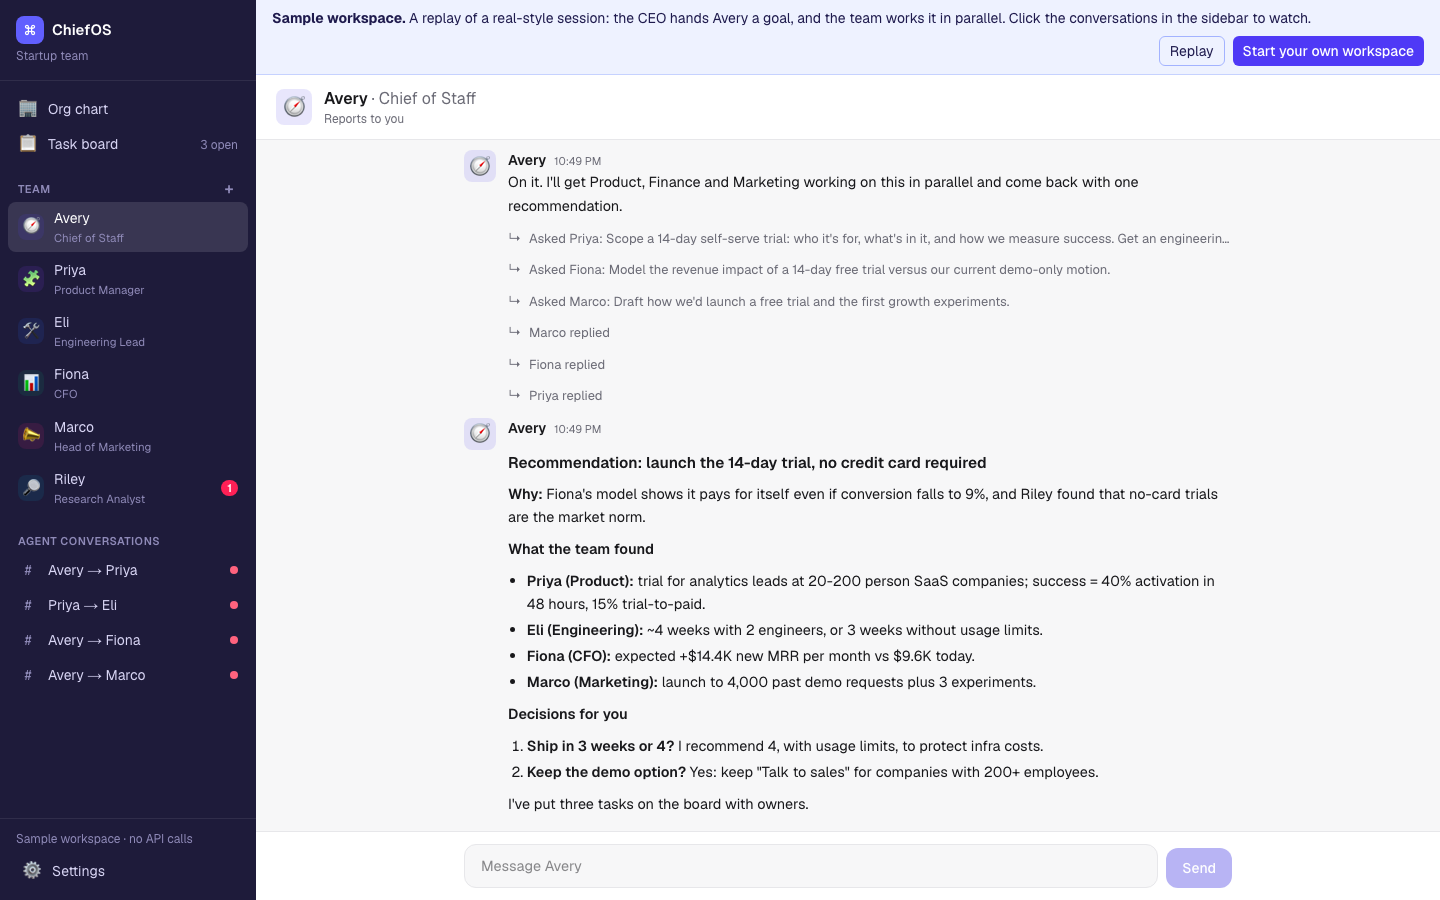
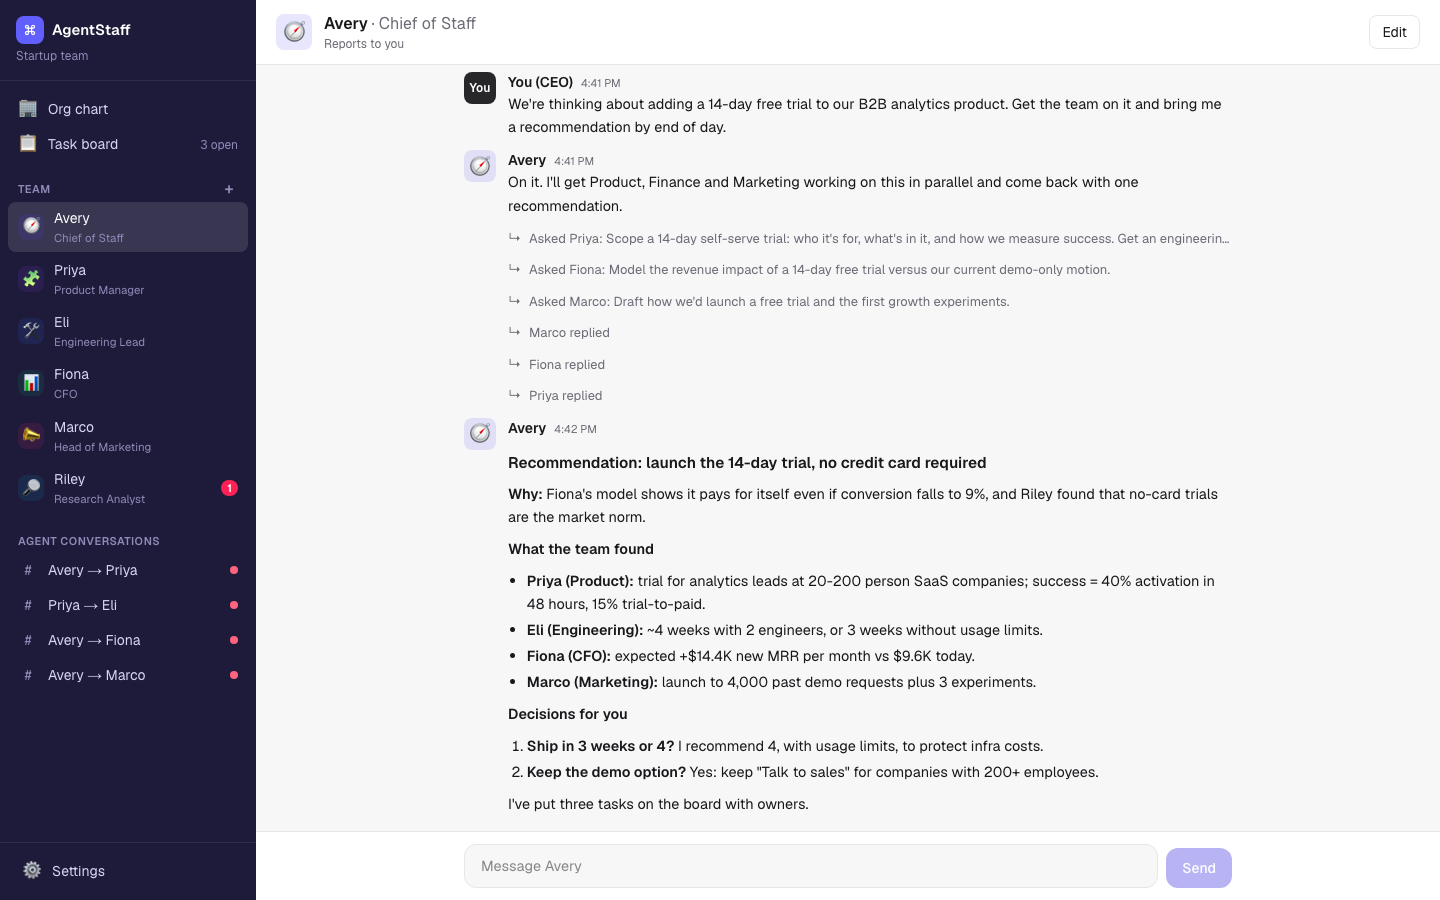
Rename the app to AgentStaff
ChiefOS is already the name of an existing AI chief-of-staff product, so the
app is now AgentStaff. Saved workspaces and API keys from the old name are
carried over automatically. README screenshots and header image updated.

diff --git a/src/lib/store.ts b/src/lib/store.ts
@@ -9,8 +9,9 @@ import type { AuthorId, BoardTask, ChatMessage, Org, Settings, Thread, Usage, Vi
  * and components subscribe with useWorkspace(). Real workspaces persist to localStorage; the demo doesn't.
  */
 
-const STATE_KEY = "chiefos:workspace:v1";
-const KEY_KEY = "chiefos:apiKey";
+const STATE_KEY = "agentstaff:workspace:v1";
+const KEY_KEY = "agentstaff:apiKey";
+const LEGACY = { "chiefos:workspace:v1": STATE_KEY, "chiefos:apiKey": KEY_KEY };   // the app's earlier name
 
 /** One-click presets. New workspaces start on Balanced so a first run never surprises anyone. */
 export const COST_MODES = {
@@ -96,6 +97,11 @@ function save() {
 /** Load the saved workspace. Returns false when there is none (first visit). */
 export function loadSaved(): boolean {
   try {
+    for (const [old, now] of Object.entries(LEGACY)) {
+      const v = localStorage.getItem(old);
+      if (v !== null && localStorage.getItem(now) === null) localStorage.setItem(now, v);
+      if (v !== null) localStorage.removeItem(old);
+    }
     const raw = localStorage.getItem(STATE_KEY);
     const apiKey = localStorage.getItem(KEY_KEY) ?? "";
     if (!raw) {

diff --git a/src/components/Settings.tsx b/src/components/Settings.tsx
@@ -34,7 +34,7 @@ export function Settings({ onClose, reason }: { onClose: () => void; reason?: st
     const blob = new Blob([JSON.stringify(rest, null, 2)], { type: "application/json" });
     const a = document.createElement("a");
     a.href = URL.createObjectURL(blob);
-    a.download = `chiefos-workspace-${new Date().toISOString().slice(0, 10)}.json`;
+    a.download = `agentstaff-workspace-${new Date().toISOString().slice(0, 10)}.json`;
     a.click();
     URL.revokeObjectURL(a.href);
   };
@@ -64,7 +64,7 @@ export function Settings({ onClose, reason }: { onClose: () => void; reason?: st
           <a className="text-accent underline" href="https://platform.claude.com/settings/keys" target="_blank" rel="noopener noreferrer">
             platform.claude.com
           </a>
-          . Your key is stored only in this browser and sent only to Anthropic. ChiefOS has no server. You pay
+          . Your key is stored only in this browser and sent only to Anthropic. AgentStaff has no server. You pay
           Anthropic directly for what you use; the sidebar shows an estimate.
         </p>
       </section>

diff --git a/src/app/layout.tsx b/src/app/layout.tsx
@@ -6,9 +6,9 @@ const geistSans = Geist({ variable: "--font-geist-sans", subsets: ["latin"] });
 const geistMono = Geist_Mono({ variable: "--font-geist-mono", subsets: ["latin"] });
 
 export const metadata: Metadata = {
-  title: "ChiefOS · Your AI company",
+  title: "AgentStaff · Manage an AI team like an org chart",
   description:
-    "An AI operating system for one-person companies: chat with your AI chief of staff, product manager, engineer and CFO in parallel, and watch them work with each other.",
+    "An AI agent management app built in Claude Code: chat with your AI chief of staff, product manager, engineer and CFO in parallel, and watch them hand off work to each other.",
 };
 
 export default function RootLayout({ children }: Readonly<{ children: React.ReactNode }>) {

diff --git a/src/components/Sidebar.tsx b/src/components/Sidebar.tsx
@@ -27,7 +27,7 @@ export function Sidebar({ onSettings, onHire, onNavigate }: { onSettings: () => 
       <div className="border-b border-white/8 px-4 py-4">
         <div className="flex items-center gap-2 text-[15px] font-semibold text-white">
           <span className="grid h-7 w-7 place-items-center rounded-lg bg-indigo-500 text-sm">⌘</span>
-          ChiefOS
+          AgentStaff
           {anyBusy && <span className="working-dot ml-auto h-2 w-2 rounded-full bg-emerald-400" title="Agents working" />}
         </div>
         <div className="mt-1 truncate text-xs text-sidebar-muted">{s.org.name}</div>

diff --git a/src/lib/demo.ts b/src/lib/demo.ts
@@ -4,7 +4,7 @@ import { TEMPLATES, cloneOrg } from "./templates";
 import type { AuthorId } from "./types";
 
 /**
- * The sample workspace: a scripted replay of what a real ChiefOS session looks like, so anyone can
+ * The sample workspace: a scripted replay of what a real AgentStaff session looks like, so anyone can
  * see it work without an API key. The text is pre-written for illustration; no API calls are made.
  */
 

diff --git a/src/lib/engine.ts b/src/lib/engine.ts
@@ -5,7 +5,7 @@ import { dmId, teamId } from "./store";
 import type { Agent, ModelId, Usage } from "./types";
 
 /**
- * ChiefOS engine.
+ * AgentStaff engine.
  *
  * Every thread is its own Claude conversation (like a separate Claude Code session). The CEO can talk to
  * several agents at once, and agents can message each other with the `message_colleague` tool. That call

diff --git a/src/app/page.tsx b/src/app/page.tsx
@@ -65,7 +65,7 @@ export default function Home() {
           <button onClick={() => setNavOpen(true)} className="rounded-md px-2 py-1 text-lg" aria-label="Open navigation">
             ☰
           </button>
-          <span className="font-semibold">ChiefOS</span>
+          <span className="font-semibold">AgentStaff</span>
         </div>
 
         {demo && (

diff --git a/next.config.ts b/next.config.ts
@@ -1,6 +1,6 @@
 import type { NextConfig } from "next";
 
-// Static export: ChiefOS has no server. It runs entirely in the browser and can be hosted anywhere for free.
+// Static export: AgentStaff has no server. It runs entirely in the browser and can be hosted anywhere for free.
 const nextConfig: NextConfig = {
   output: "export",
 };

diff --git a/README.md b/README.md
@@ -1,17 +1,17 @@
-# ChiefOS · manage an AI team like an org chart
+# AgentStaff · manage an AI team like an org chart
 
 *An AI agent management app, built in Claude Code.*
 
 **Chat with your AI chief of staff, product manager, engineer and CFO in parallel, and watch them work with each other.**
 
-ChiefOS is a workspace laid out like Slack, where every employee is an AI agent. You're the CEO. Pick anyone in the
+AgentStaff is a workspace laid out like Slack, where every employee is an AI agent. You're the CEO. Pick anyone in the
 left nav and start a conversation. Ask your CFO about runway while your product manager writes a PRD. Hand your
 chief of staff a goal and watch them delegate it: they message the PM, the CFO and marketing **at the same time**,
 the PM pulls in the engineer for an estimate, tasks land on a shared board, and you get one recommendation back.
 
 Every agent-to-agent conversation is its own thread you can open and read. Nothing happens in a black box.
 
-![ChiefOS: an AI team you manage like an org chart](docs/screenshots/hero.png)
+![AgentStaff: an AI team you manage like an org chart](docs/screenshots/hero.png)
 
 > **Try it without an API key:** the app opens with a sample workspace that replays a full session.
 
@@ -161,10 +161,10 @@ subscribe with `useSyncExternalStore`.
 
 ## Privacy and cost
 
-- **There is no ChiefOS server.** The app is a static site. Your Anthropic API key is saved in your browser's
+- **There is no AgentStaff server.** The app is a static site. Your Anthropic API key is saved in your browser's
   local storage and sent only to `api.anthropic.com`. Conversations are stored only in your browser.
 - Calling the API directly from a browser requires the SDK's `dangerouslyAllowBrowser` flag. That's appropriate
-  here because it's **your own key on your own device**. Don't deploy ChiefOS with a shared key baked in.
+  here because it's **your own key on your own device**. Don't deploy AgentStaff with a shared key baked in.
 - You pay Anthropic directly for usage. The sidebar shows an estimate and how much input came from the cache.
   Delegation multiplies calls, so a goal handed to the chief of staff costs more than a single chat. Every request
   has a hard budget (Settings), and Economy mode runs a full team request for about a cent.
@@ -174,8 +174,8 @@ subscribe with `useSyncExternalStore`.
 You need Node.js 20+ and an Anthropic API key ([get one here](https://platform.claude.com/settings/keys)).
 
 ```bash
-git clone https://github.com/madhurismba-dev/chiefos.git
-cd chiefos
+git clone https://github.com/madhurismba-dev/agentstaff.git
+cd agentstaff
 npm install
 npm run dev
 ```
